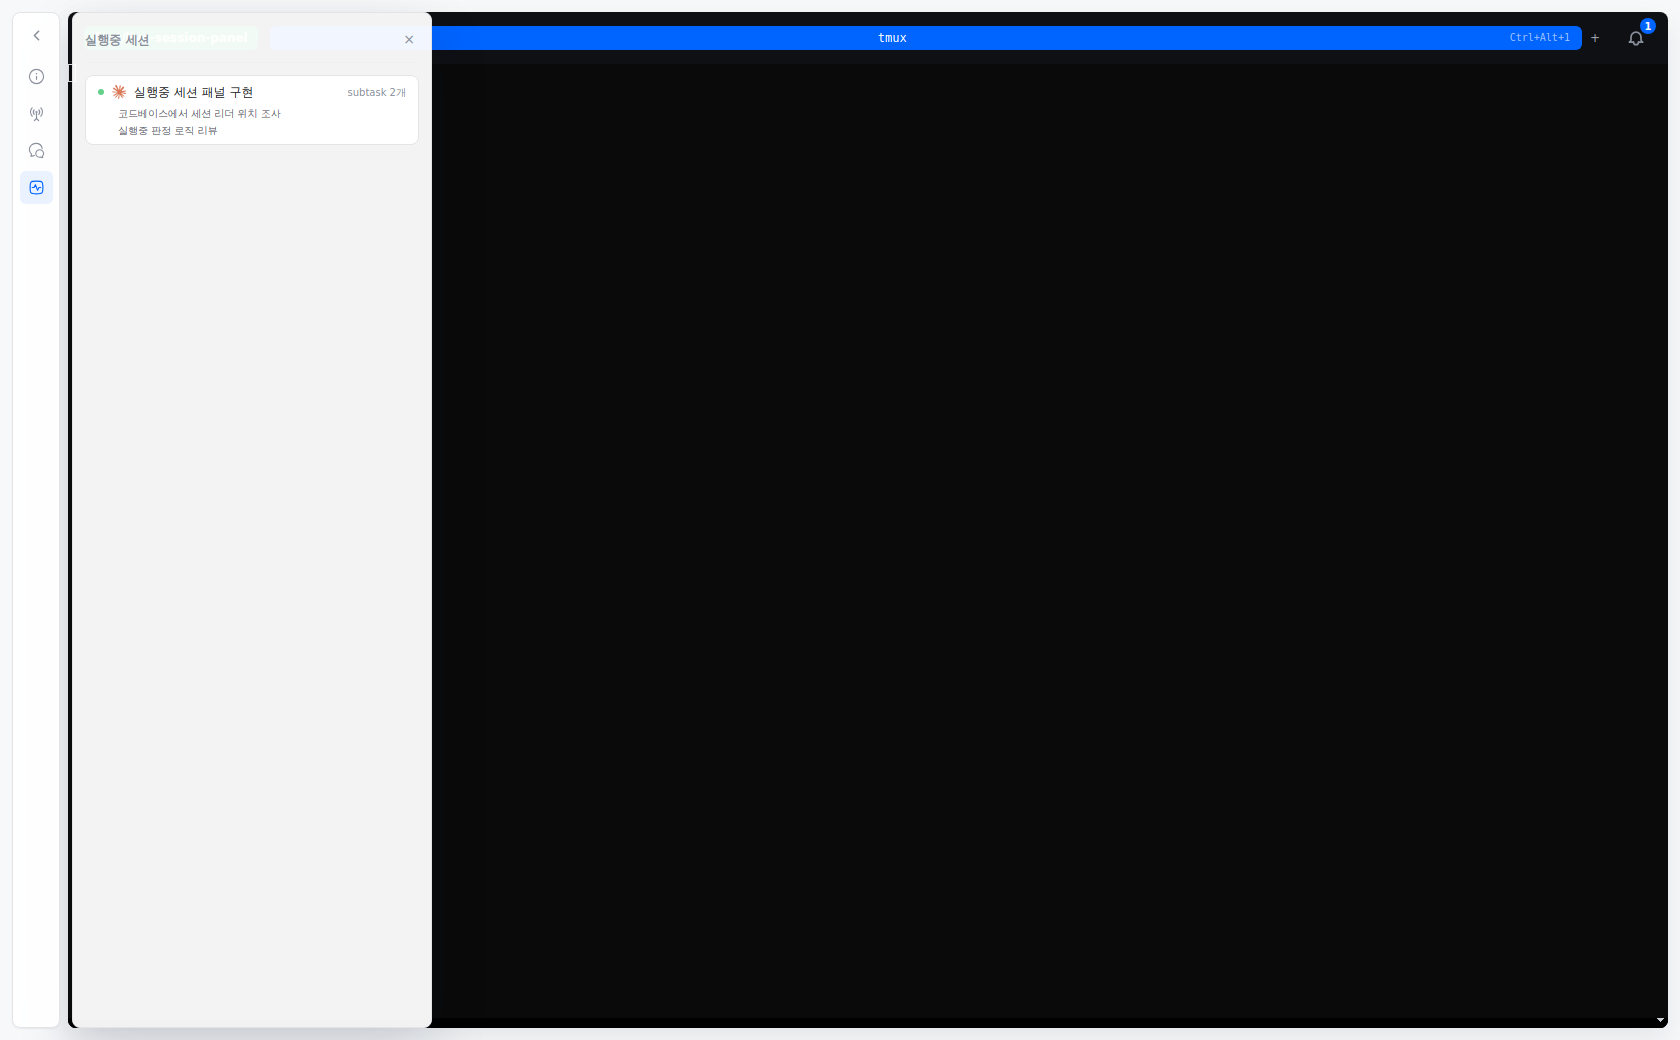
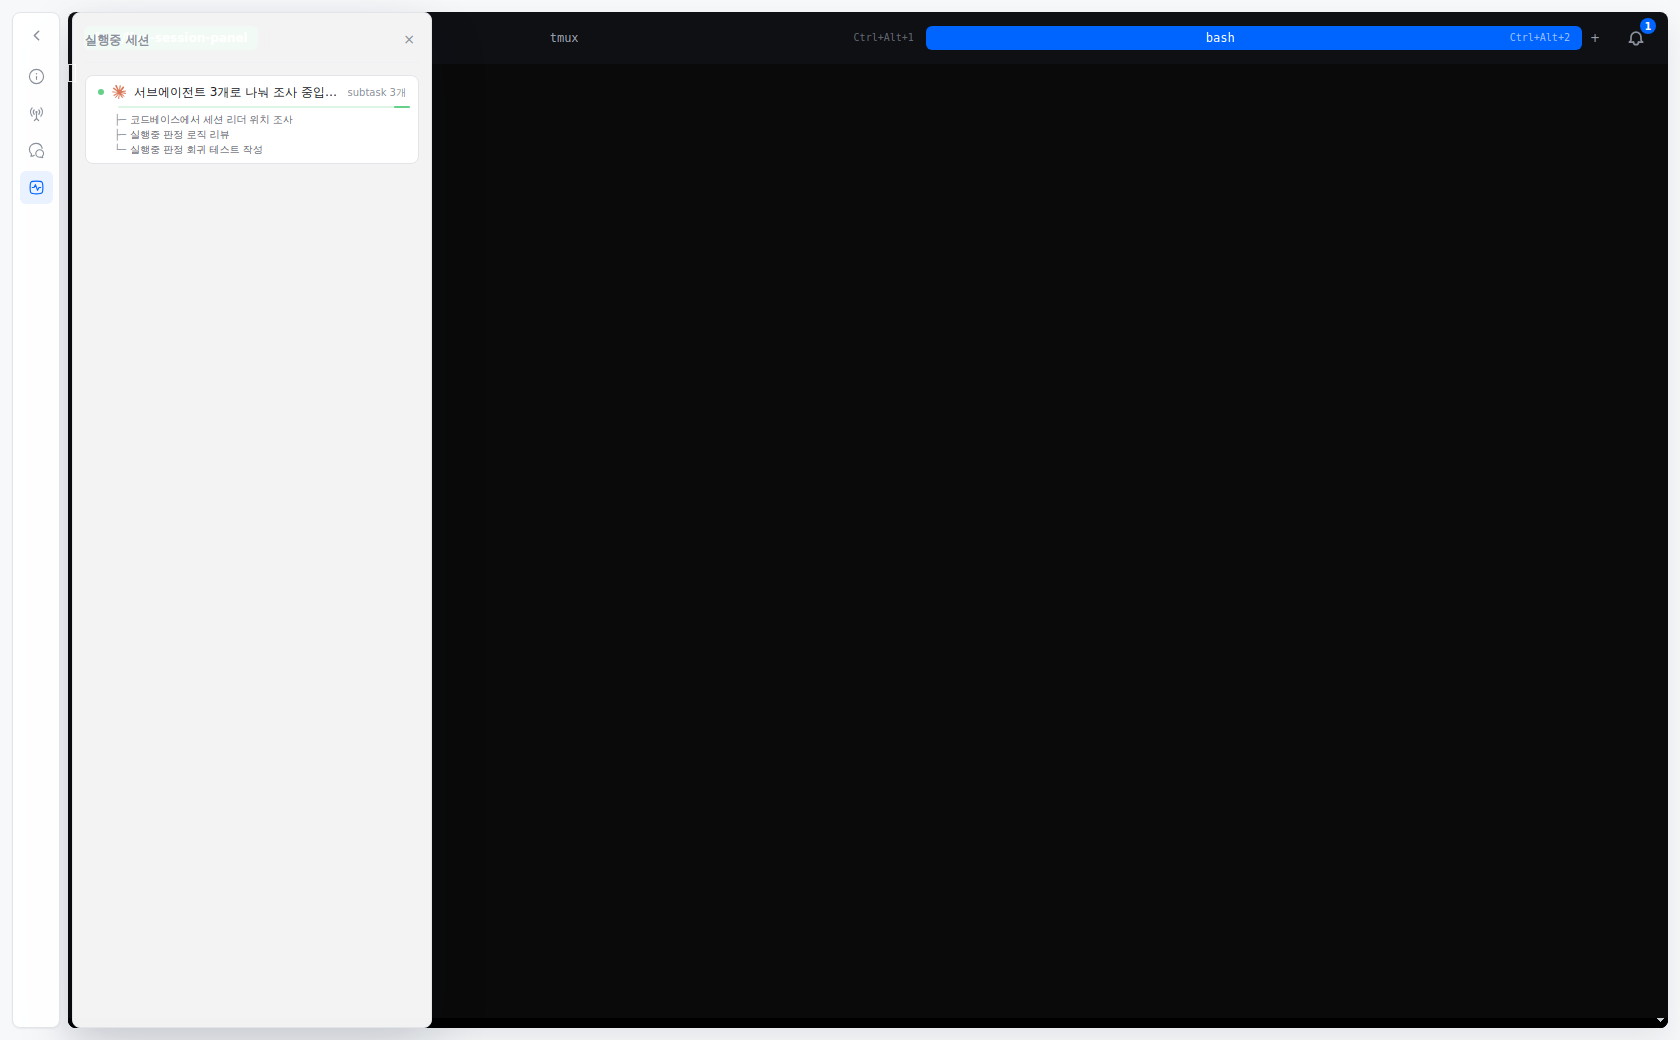
docs: 실행중 세션 화면을 다시 찍고 문서를 맞춘다
배지가 provider별 개수로 바뀌고 세션 라벨이 마지막 AI 응답으로 바뀌었으며 진행 막대와
가지 표현이 들어왔는데, 문서 이미지와 문구는 그 이전 화면에 머물러 있었다.

캡처 픽스처도 새 화면이 드러나게 손봤다. 같은 에이전트를 두 개 띄워 provider별 개수가
1을 넘게 하고, 서브태스크를 셋으로 늘려 가지의 중간과 끝이 함께 보이게 하며, 세션 라벨이
마지막 AI 응답에서 오므로 assistant 메시지를 심는다.

Changed region(s): [[0.2476, 0.0, 0.5571, 0.0615], [0.0619, 0.0615, 0.1857, 0.1538]]

diff --git a/README.md b/README.md
@@ -85,7 +85,7 @@ Turn on Vim-style board controls in **Settings → Keyboard**, then move across 
 
 ### 7. Live AI Session Tracking
 
-See which AI agent is running on which task straight from the board, then jump into the terminal that owns it. Focus or hover a card and hold for a moment to open the session panel; it lists each running session with what it is working on and the subtasks it is driving right now. Clicking a session switches to the tmux window that session is attached to and moves input focus to the terminal.
+See which AI agents are running on which task, and how many, straight from the board, then jump into the terminal that owns one. Focus or hover a card and hold for a moment to open the session panel; it lists each running session with what it is doing and the subtasks branching off it right now. Clicking a session switches to the tmux window that session is attached to and moves input focus to the terminal.
 
 <img src="./docs/images/readme/kanvibe-live-sessions-board.png" alt="Board card showing a running claude session with two subtasks" width="100%">
 
@@ -200,8 +200,9 @@ Each pane can run a custom command (e.g., `vim`, `htop`, `lazygit`, test runner,
 - Nerd Font rendering support
 
 ### Live AI Session Tracking
-- Board cards show a running-agent icon and a running count next to the tmux badge, so you can tell at a glance which task has agents on it and how many
-- Focus or hover a card to open a session panel that shows what each running session is working on, taken from its most recent user request, along with the subtasks it is driving; sweeping past cards does not open it
+- Board cards show a per-agent icon and count next to the tmux badge, so you can tell at a glance which agents are running on which task and how many
+- Focus or hover a card to open a session panel that shows what each running session is doing, taken from its most recent AI response, along with the subtasks it is driving as branches hanging off the session; sweeping past cards does not open it
+- Running sessions carry a moving progress bar that conveys progress through motion rather than a ratio, and holds still when the environment asks for reduced motion
 - Task detail exposes the same panel through the live sessions dock item (`Mod+4` without a PR, `Mod+5` with one)
 - Clicking a session switches to its tmux window and moves input focus to the terminal
 - Running state combines two signals: an agent attached to a tmux pane counts as running even while it waits for input, and a session whose transcript was just updated counts as running even when no pane is visible
